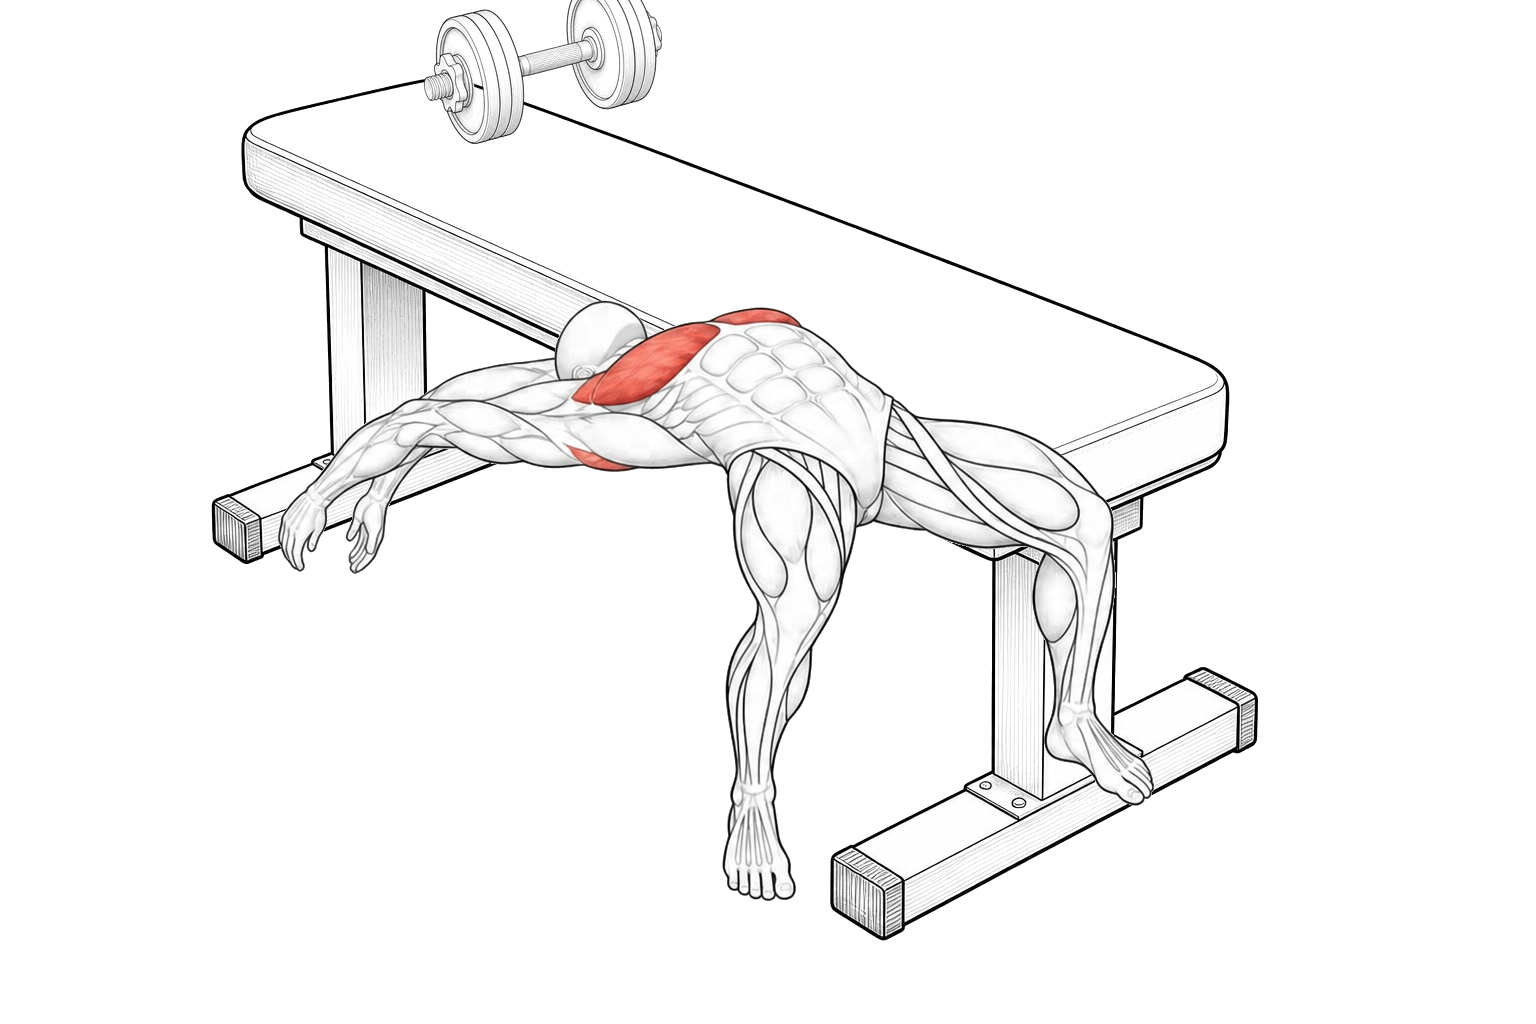
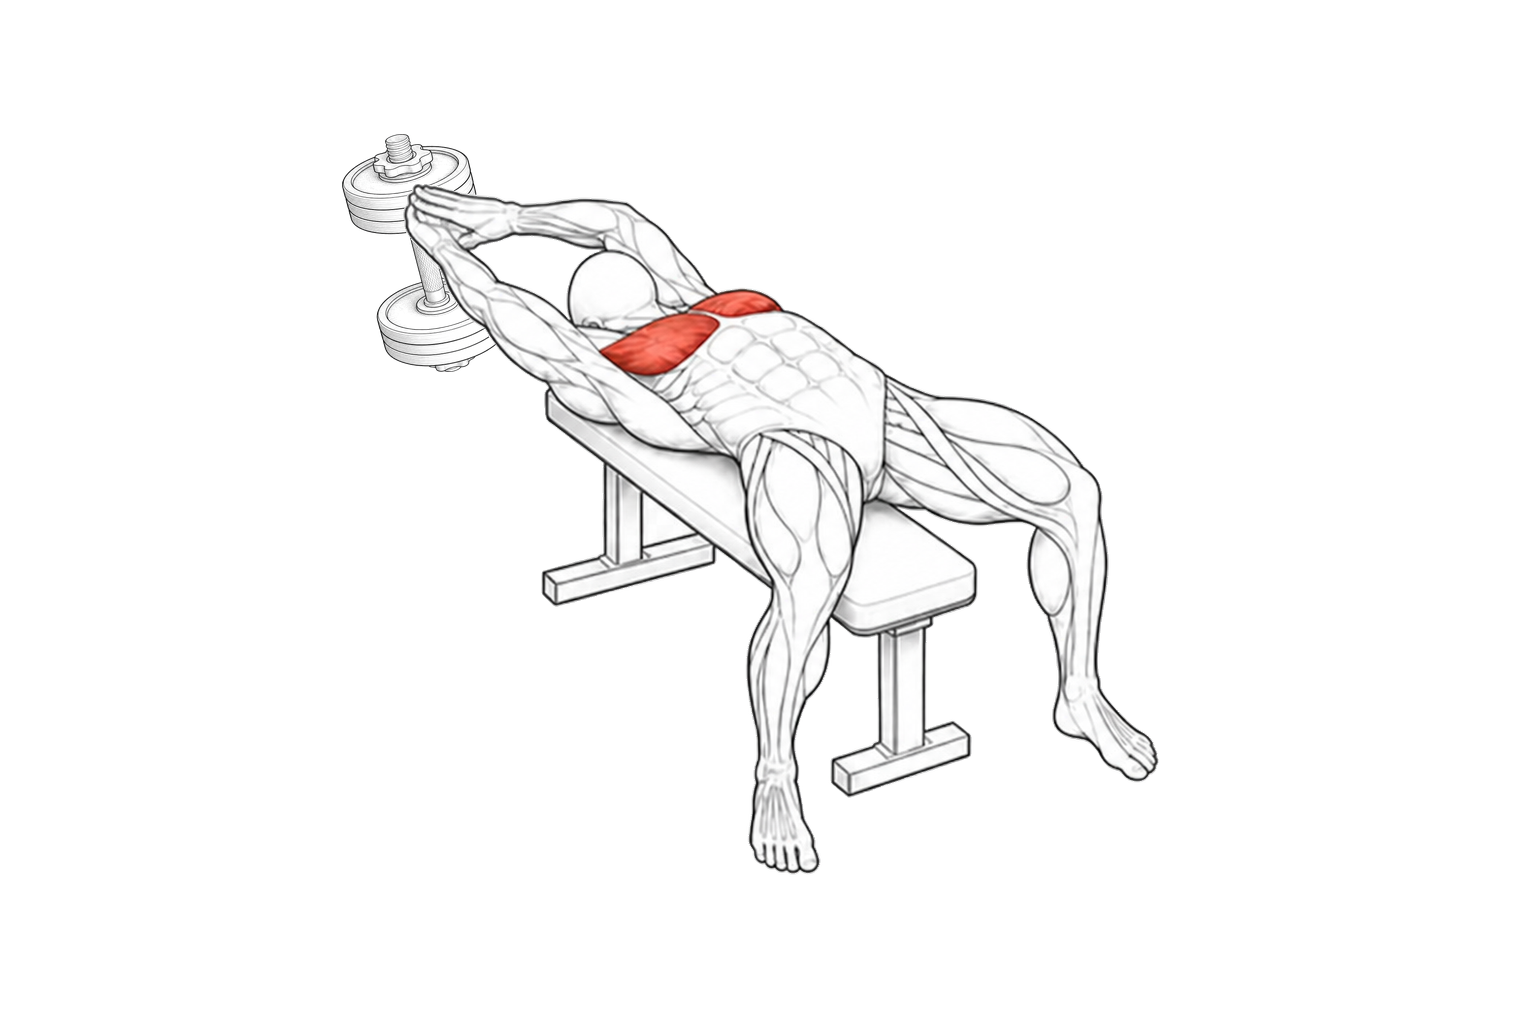
fix: rebuild dumbbell pullover illustrations

diff --git a/model_image/exercise-images/scenes/dumbbell-pullover.prompt.md b/model_image/exercise-images/scenes/dumbbell-pullover.prompt.md
@@ -1,81 +1,80 @@
-# Dumbbell Pullover — 통합 합성 프롬프트 명세
+# Dumbbell Pullover — 재생성 프롬프트 및 합성 명세
 
-## 목적
+## 제품 계약
 
-`chest_dumbbell_pullover`의 두 프레임을 같은 인체·카메라·벤치 계약으로 제작한다.
-제품 분류의 1차 부위는 `overall_chest`, 2차 부위는 `lats`이며, 정면 3/4 시점에서
-가슴의 활성 부위를 명확히 보여주고 등 쪽 2차 부위를 인위적으로 노출하지 않는다.
+- `exerciseId`: `chest_dumbbell_pullover`
+- 기준 자세: 승인된 `barbell-flat-bench-press-mid.png`의 높은 정면 3/4 카메라와 벤치 지지
+- 주 활성: `overall_chest`
+- 보조 활성: `lats` — 현재 정면 3/4 시점에서 등 표면을 억지로 노출하지 않음
+- 기구: `flat_bench_three_quarter_v1`, `dumbbell_adjustable_three_quarter_v1`
+- 프레임: `top`을 골든 프레임으로 만들고 `bottom`은 `top`에서 파생 편집
 
-## 고정 참조와 산출물
+## 레퍼런스 역할
 
-- 인체/스타일 기준: `../../style-4/source/front-master.png`
-- 승인된 장면 스타일 기준: `../final/barbell-flat-bench-press.png`
-- 승인된 벤치: `../../equipment/final/flat_bench_three_quarter.png`
-- 승인된 덤벨: `../../equipment/final/dumbbell_adjustable_three_quarter.png`
-- 원본 생성 프레임:
-  - `../source/dumbbell-pullover-top-generated.png`
-  - `../source/dumbbell-pullover-bottom-generated.png`
-- 최종 합성 프레임:
-  - `../final/dumbbell-pullover-top.png`
-  - `../final/dumbbell-pullover-bottom.png`
+1. `../final/barbell-flat-bench-press-mid.png`: 첫 프레임 편집 대상. 카메라, 몸통, 골반, 다리, 발, 벤치 지지를 고정한다.
+2. `../../style-4/source/front-master.png`: 흰색 의료용 마네킹과 근육 경계 스타일만 참조한다.
+3. `../../equipment/final/dumbbell_adjustable_three_quarter.png`: 덤벨의 원판 수, 손잡이, 칼라, 비율을 결정하는 승인 원본이다.
 
-원본 생성기는 운동 자세와 인체만 생성한다. 기구는 이미지 생성기가 새로 그리지
-않고 `compose-approved-equipment.mjs`가 equipment catalog의 승인된 PNG를
-`dumbbell-pullover.composite.json` 좌표로 합성한다. 따라서 덤벨 모양, 벤치, 카메라,
-캔버스는 catalog 자산과 장면 계약에서 단일하게 관리된다.
-
-## 공통 생성 프롬프트 — top
+## 골든 `top` 프롬프트
 
 ```text
-Use the supplied approved front anatomical mannequin and flat-bench exercise reference
-as the exact visual language. Create a clean medical exercise illustration on a
-1536x1024 transparent canvas: one front three-quarter anatomical mannequin lying
-supine on a flat weight bench, head toward the rear of the bench and feet fixed on
-the floor. Show the contracted/top position of a dumbbell pullover: both arms are
-raised above the chest, elbows remain softly bent, both hands meet around one
-imaginary dumbbell grip, and the shoulders are not shrugged. Keep head, torso,
-pelvis, legs, feet, bench geometry, camera elevation, body scale, line weight,
-white-and-light-gray anatomy rendering, and muscle coloration consistent with the
-approved flat-bench reference. Highlight the pectoralis major regions in the same
-red convention; do not add labels, arrows, text, extra equipment, background, or a
-second dumbbell. Leave the dumbbell itself for the deterministic catalog overlay.
-Preserve transparent alpha; do not render a checkerboard into the pixels.
+Precisely edit the approved flat-bench press scene into the top/start position
+of a dumbbell pullover. Preserve its mannequin identity, head, torso, pelvis,
+legs, feet, bench, camera, scale, margins, linework, and pectoralis highlight.
+Remove the barbell. Raise both arms above the sternum with elbows softly bent
+10–15 degrees. Hold exactly one vertically oriented adjustable dumbbell using
+both hands around the same upper plate. Fingers and thumbs must visibly contact
+the weight; no floating equipment or separate dumbbells. Keep vivid red only
+on pectoralis major and return shoulders and arms to the white anatomical shell.
+No text, labels, clothing, facial features, extra limbs, shadow, crop, or zoom.
 ```
 
-## 파생 편집 프롬프트 — bottom
+## 파생 `bottom` 프롬프트
 
 ```text
-Edit the approved top-position figure only. Keep the exact same 1536x1024 canvas,
-camera, head center, torso, pelvis, legs, feet, bench alignment, anatomy style,
-muscle colors, body proportions, and line weight. Move both slightly bent arms in
-one controlled shoulder-extension arc behind the head toward the rear of the bench;
-the hands remain together around the same single imaginary dumbbell grip. Do not
-change the bench, camera, body scale, or muscle highlight. Do not invent or redraw
-any equipment: the approved dumbbell will be composited later. No labels, arrows,
-text, extra limbs, extra weights, or background. Preserve transparent alpha and
-return a clean 1536x1024 figure-only layer.
+Edit only both arms, hands, and the same dumbbell from the approved top frame.
+Keep the canvas, camera, head, torso, pelvis, legs, feet, bench, body scale,
+linework, and muscle colors unchanged. Sweep both arms together behind the head
+in a controlled pullover arc. Upper arms finish near the ears; elbows remain
+symmetrically bent 15–20 degrees. Both hands continue supporting the same upper
+plate of one vertical dumbbell. The weight moves with the hands and remains clear
+of the bench and floor. No torso shift, spine-arch change, shoulder lift, camera
+movement, second dumbbell, extra limbs, text, shadow, crop, or zoom.
 ```
 
-## 합성 계약
+## 생성 기구 제거 프롬프트
 
-| frame | approved dumbbell `grip_center` target | movement | expected state |
-| --- | ---: | --- | --- |
-| `top` | `[650, 105]` | arms above sternum | shortened/contracted |
-| `bottom` | `[335, 435]` | arms behind head | lengthened/stretched |
+두 프레임에서 모델이 그린 덤벨만 제거하고 손·손가락·손목·팔의 좌표를 유지한다.
+손은 빈 상단 플레이트를 감싸는 형태로 남겨 정확한 catalog PNG가 뒤에서 합성될 수
+있어야 한다. 생성 원본은 다음 경로에 보존한다.
 
-The dumbbell is one object held with both hands. The overlay is placed behind the
-figure so the hands occlude the grip. The exact catalog anchor and all fixed bench
-anchors are recorded in `dumbbell-pullover.scene.json`; no per-frame manual crop or
-Android drawable edit is allowed.
+- `../source/dumbbell-pullover-top-generated.png`
+- `../source/dumbbell-pullover-bottom-generated.png`
 
-## 검수 체크리스트
+체크무늬는 `extract-connected-light-background.mjs`로 제거한다. `top` 원본의
+1537×1023 출력은 1536×1024로 정규화한다. `bottom`은 고정 영역 비교 결과에 따라
+캔버스 중심 기준 0.97배, 최종 배치 `left: 27`, `top: 23`으로 정규화한다.
 
-- [ ] `exerciseId` is `chest_dumbbell_pullover`.
-- [ ] Both frames are 1536x1024 and use the same fixed canvas/camera.
-- [ ] The bottom frame is an edit derived from the top frame.
-- [ ] Exactly one catalog-approved dumbbell is visible in each frame.
-- [ ] The hands visibly meet the dumbbell grip in both frames.
-- [ ] Bench, head, pelvis, feet, and body scale remain locked.
-- [ ] No checkerboard pixels, labels, arrows, text, or extra equipment remain.
-- [ ] Final files are transparent PNGs; generated Android resources are produced by
-      the repository pipeline and are not edited by hand.
+## 정확한 기구 합성
+
+`compose-anchored-equipment.mjs`가 `dumbbell-pullover.composite.json`의 프레임별
+배치를 읽는다. 두 프레임 모두 같은 승인 덤벨 PNG를 0.22배, 시계 방향 90°로
+강체 변환하고 인체 레이어 뒤에 합성한다.
+
+| frame | catalog anchor | target | scale | rotation |
+| --- | --- | ---: | ---: | ---: |
+| `top` | `mass_left` | `[697, 72]` | `0.22` | `90°` |
+| `bottom` | `mass_left` | `[407, 190]` | `0.22` | `90°` |
+
+`mass_left`는 회전 후 양손이 감싸는 상단 플레이트가 된다. 인체 레이어가 마지막에
+합성되므로 손가락이 플레이트를 자연스럽게 가리고, 덤벨은 손과 분리돼 보이지 않는다.
+
+## 검수
+
+- [ ] 한 덤벨만 있으며 두 손이 같은 상단 플레이트에 접촉한다.
+- [ ] top은 가슴 위, bottom은 머리 뒤의 명확히 다른 자세다.
+- [ ] 머리·몸통·골반·다리·발·벤치·카메라는 고정돼 보인다.
+- [ ] 가슴만 선명한 빨강이고 팔·어깨에 잘못된 강조가 없다.
+- [ ] 두 프레임의 덤벨 형상·크기·회전은 동일하다.
+- [ ] final은 1536×1024 실제 알파 PNG이며 체크무늬 픽셀이 없다.
+- [ ] Android drawable과 Java catalog는 Gradle로만 생성한다.
